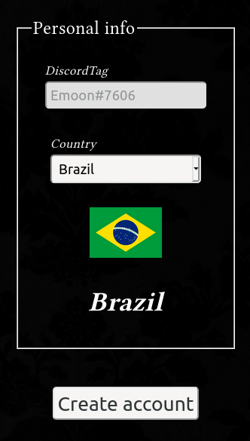
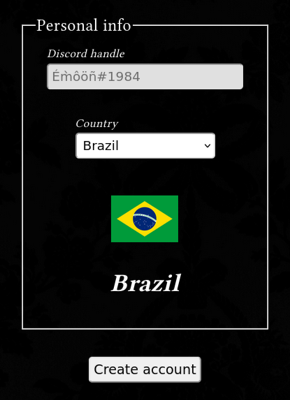
[Settings] CSS fix and term "Discord handle"

diff --git a/web/static/style.less b/web/static/style.less
@@ -330,7 +330,7 @@ a > .avatar-small {
 }
 
 figure.flag {
-  margin: 3em;
+  margin: 1.5em;
 }
 
 figure.flag > img {
@@ -378,6 +378,7 @@ fieldset > div {
 label {
   position: relative;
   display: block;
+  margin: 1em;
   text-align: left;
   font-size: 0.7em;
   font-style: italic;
@@ -417,6 +418,11 @@ label.checkbox > * {
 
 input[type="checkbox"] {
   margin: 0 10px;
+}
+
+input[type="submit"] {
+  margin: 2em;
+  font-size: 0.9em !important;
 }
 
 /* ------------------------------------------------------------------------- */

diff --git a/web/web/templates/players/settings.htm b/web/web/templates/players/settings.htm
@@ -11,8 +11,8 @@
         <fieldset>
           <legend>Personal info</legend>
           <div>
-            <label class="icon"> DiscordTag
-              <input type="text" name="discord_tag" value="{{ user.name }}#{{ user.discriminator }}" disabled>
+            <label class="icon"> Discord handle
+              <input type="text" name="discord_handle" value="{{ user.name }}#{{ user.discriminator }}" disabled>
             </label>
             <label>Country
               <input type="hidden" id="selected" value="{{ country }}">

diff --git a/web/web/templates/players/register.htm b/web/web/templates/players/register.htm
@@ -11,8 +11,8 @@
         <fieldset>
           <legend>Personal info</legend>
           <div>
-            <label class="icon"> DiscordTag
-              <input type="text" name="discord_tag" value="{{ user.name }}#{{ user.discriminator }}" disabled>
+            <label class="icon"> Discord handle
+              <input type="text" name="discord_handle" value="{{ user.name }}#{{ user.discriminator }}" disabled>
             </label>
             <label>Country
               <select name="country" required>

diff --git a/bot/commands/unlock.py b/bot/commands/unlock.py
@@ -43,7 +43,6 @@ class UnlockHandler:
             self.member = get(wonderland.members,
                     name=username, discriminator=disc)
                         
-    
     async def _send(self, text: str,
             channel: abc.Messageable = None, **kwargs):
         '''Try to send a message to member/channel.
@@ -156,7 +155,6 @@ class UnlockHandler:
                 
                 # Update multi-nickname
                 await multi_update_nickname(self.alias, self.member)
-
 
     async def advance(self, level: dict):
         '''Advance to further level when player arrives at a level front page.

diff --git a/bot/commands/webserver.py b/bot/commands/webserver.py
@@ -105,8 +105,6 @@ async def unlock(request):
                 'username': data['username'], 'disc': data['disc']}
         result = await database.fetch_one(query, values)
         user_completed_count = result['cnt']
-        logging.info(total_level_count)
-        logging.info(user_completed_count)
         if total_level_count == user_completed_count:
             # Check if player unlocked all achievements
             query = 'SELECT * FROM achievements ' \
